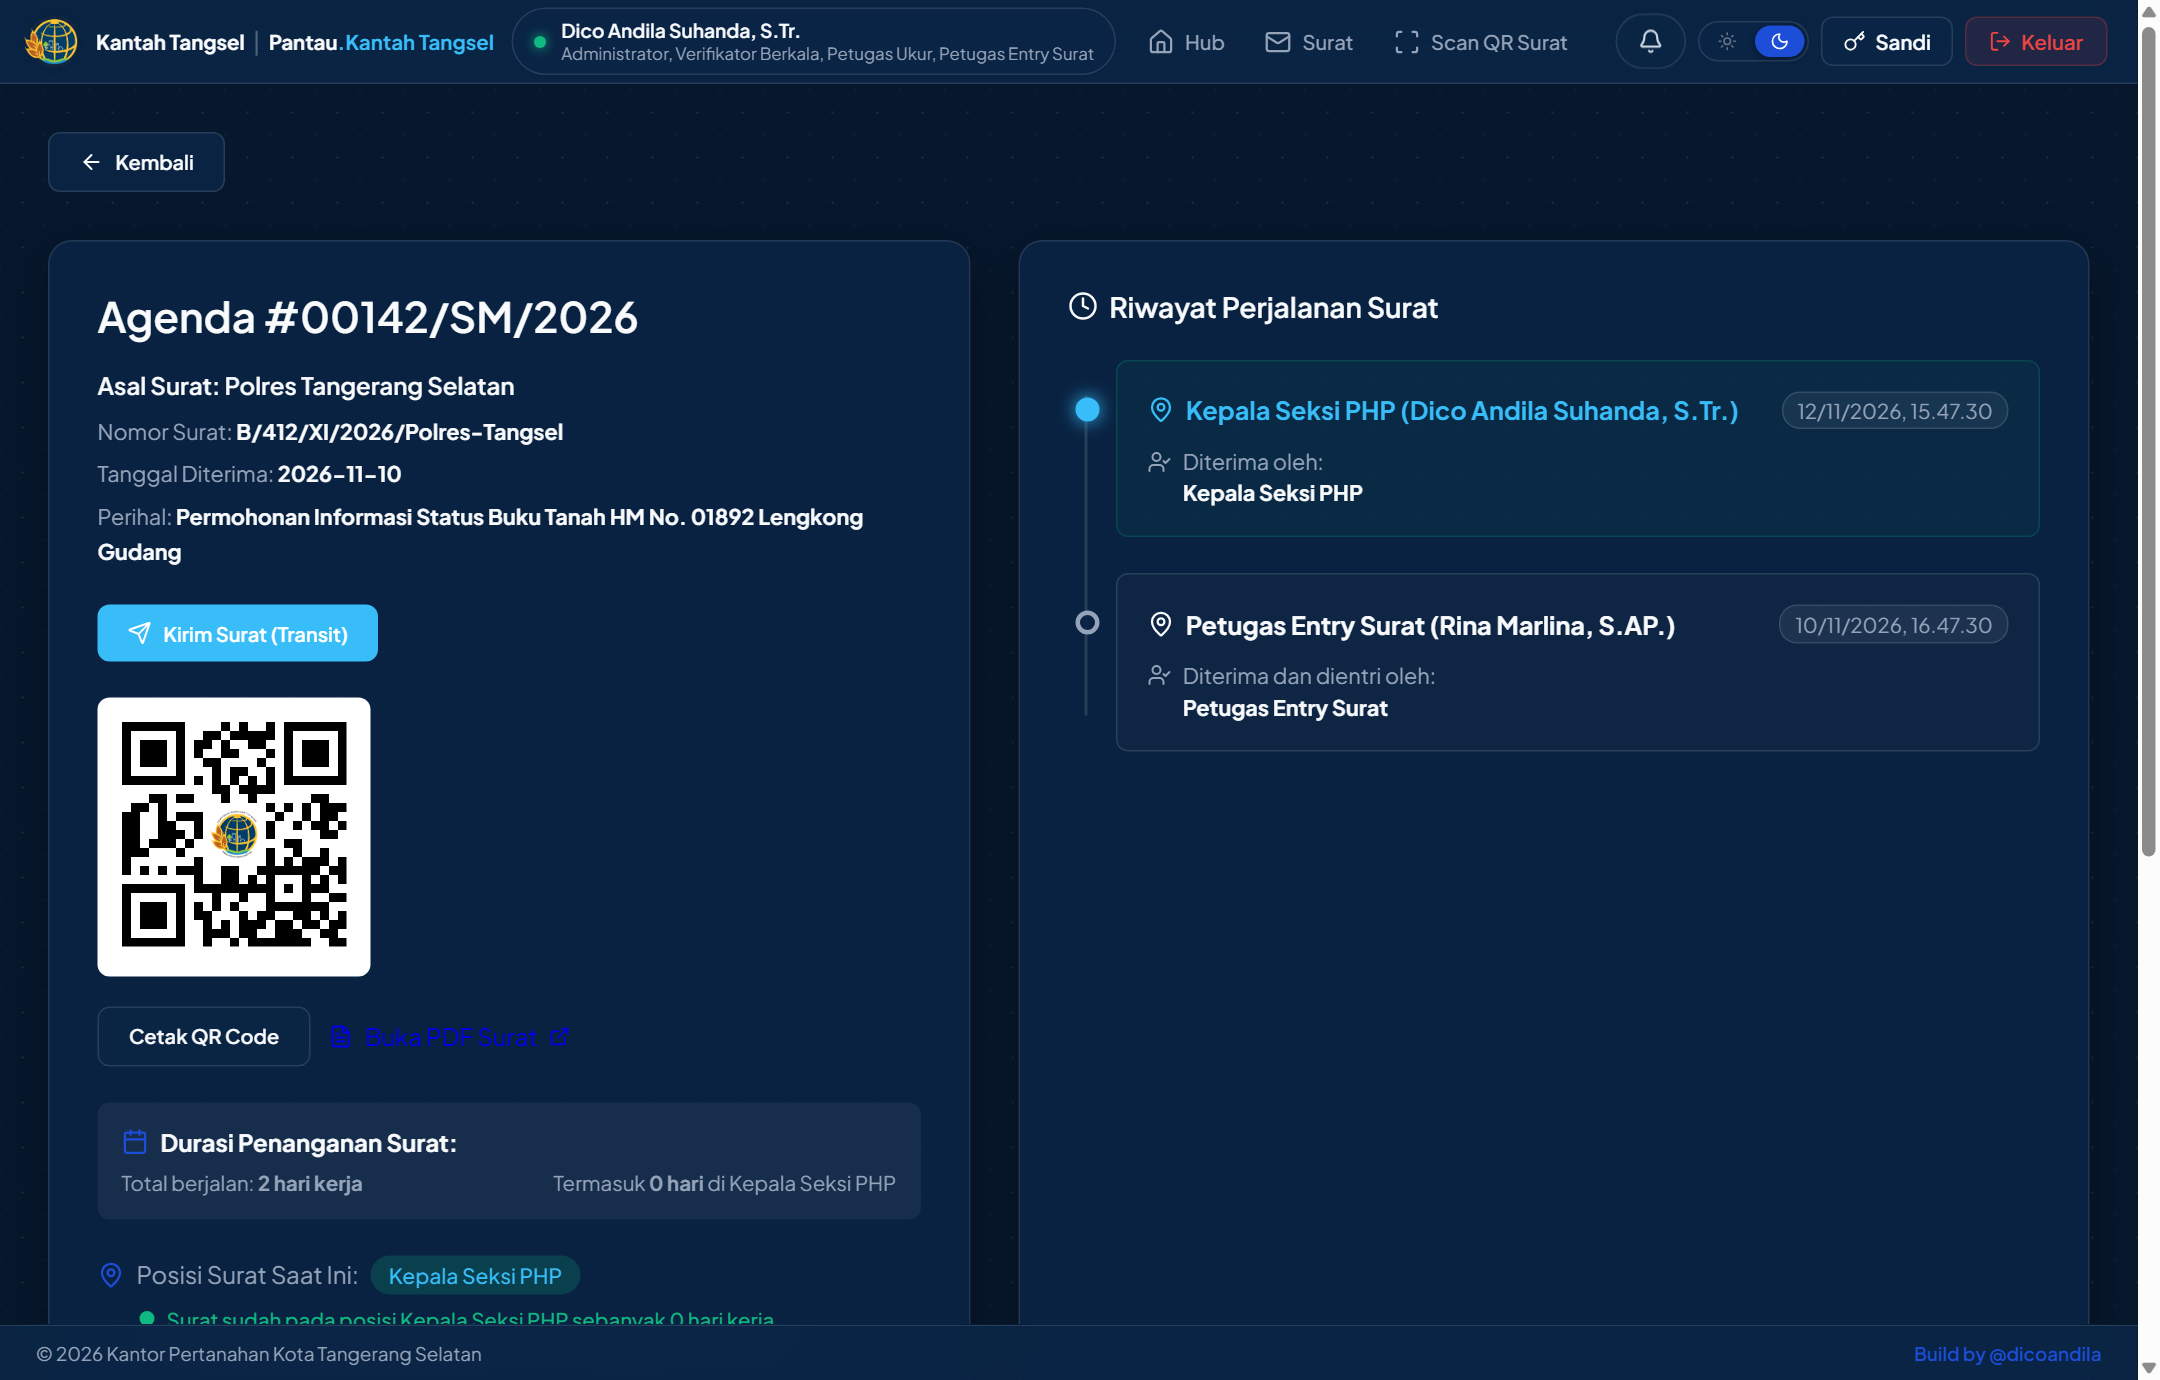
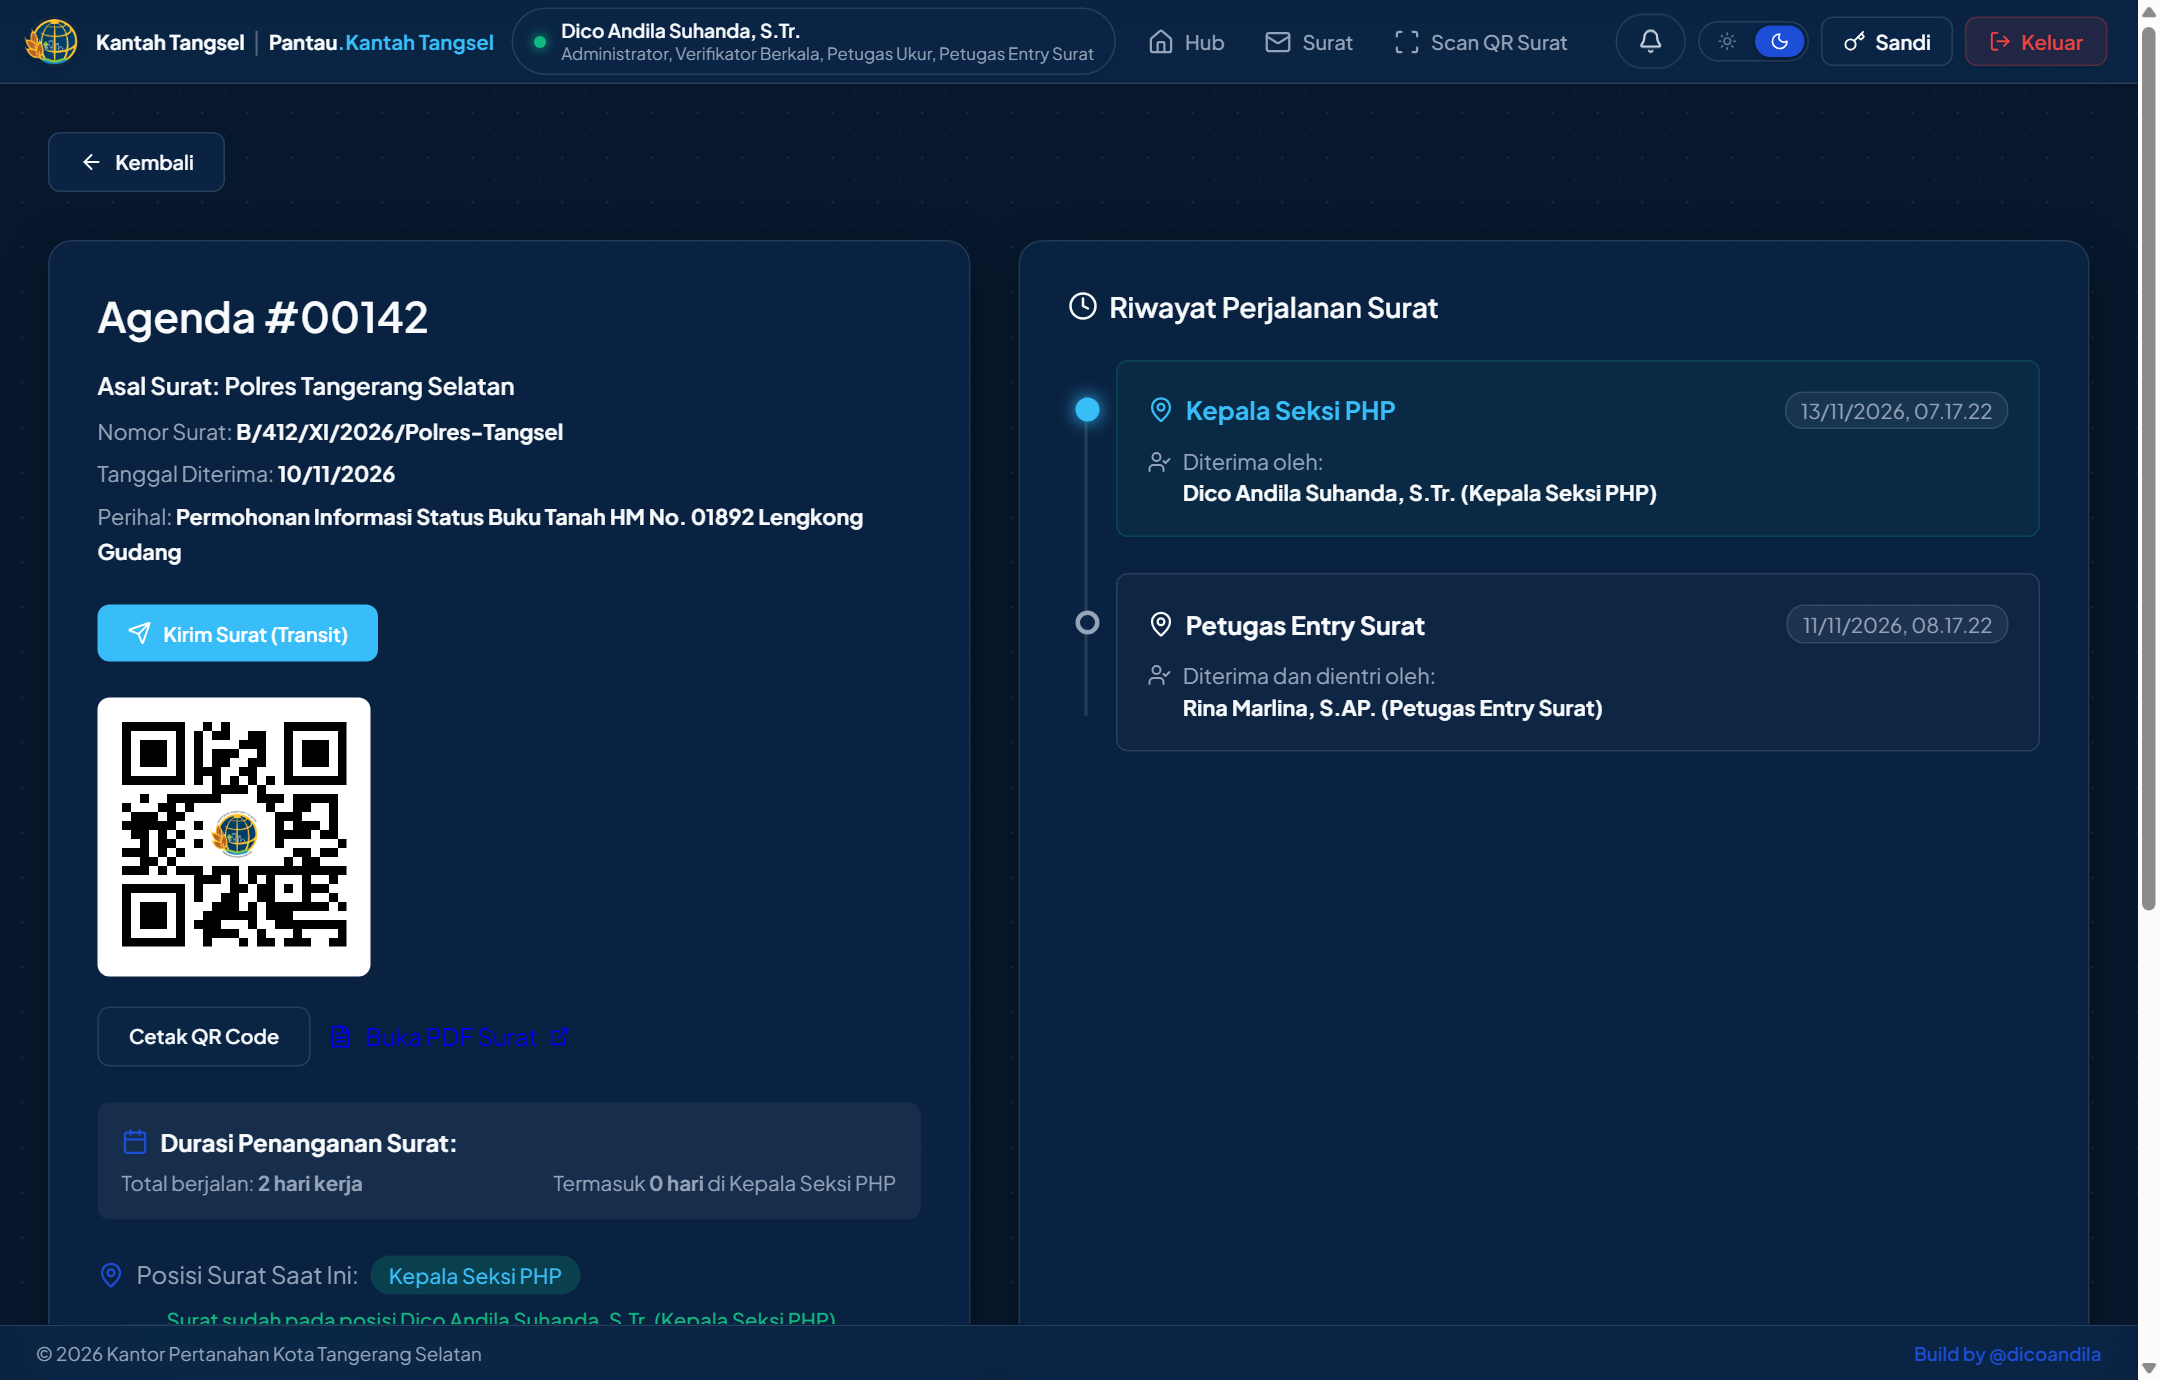
fix(surat): format tanggal_diterima as DD/MM/YYYY across Surat views and update screenshots

diff --git a/frontend/src/pages/SuratDetails.jsx b/frontend/src/pages/SuratDetails.jsx
@@ -3,7 +3,7 @@ import { useParams, useNavigate } from 'react-router-dom';
 import api from '../utils/api';
 import { QRCodeSVG } from 'qrcode.react';
 import { ArrowLeft, Clock, MapPin, UserCheck, Calendar, AlertTriangle, Edit2, Save, X, MessageSquare, Send, Loader2, FileText, ExternalLink } from 'lucide-react';
-import { getWorkingDays, getStatusColor, parseSQLiteDate } from '../utils/dateUtils';
+import { getWorkingDays, getStatusColor, parseSQLiteDate, formatDateDDMMYYYY } from '../utils/dateUtils';
 import toast from 'react-hot-toast';
 
 export default function SuratDetails() {
@@ -328,7 +328,7 @@ export default function SuratDetails() {
             Nomor Surat: <strong style={{ color: 'var(--text-main)' }}>{surat.nomor_surat}</strong>
           </p>
           <p style={{ color: 'var(--text-muted)', marginBottom: '0.35rem', fontSize: '0.9rem' }}>
-            Tanggal Diterima: <strong style={{ color: 'var(--text-main)' }}>{surat.tanggal_diterima || '-'}</strong>
+            Tanggal Diterima: <strong style={{ color: 'var(--text-main)' }}>{formatDateDDMMYYYY(surat.tanggal_diterima)}</strong>
           </p>
           <p style={{ marginBottom: '1.5rem', color: 'var(--text-muted)', fontSize: '0.9rem' }}>
             Perihal: <strong style={{ color: 'var(--text-main)' }}>{surat.perihal}</strong>

diff --git a/frontend/src/pages/SuratDashboard.jsx b/frontend/src/pages/SuratDashboard.jsx
@@ -4,6 +4,7 @@ import api from '../utils/api';
 import { Mail, MailPlus, Search, FileText, QrCode, Printer, X } from 'lucide-react';
 import { QRCodeSVG } from 'qrcode.react';
 import toast from 'react-hot-toast';
+import { formatDateDDMMYYYY } from '../utils/dateUtils';
 
 export default function SuratDashboard() {
   const [suratList, setSuratList] = useState([]);
@@ -222,7 +223,7 @@ export default function SuratDashboard() {
                   </td>
                   <td style={{ padding: '0.8rem 1rem', fontWeight: 600, fontSize: '0.86rem' }}>{surat.asal_surat}</td>
                   <td style={{ padding: '0.8rem 1rem', fontSize: '0.84rem' }}>{surat.nomor_surat}</td>
-                  <td style={{ padding: '0.8rem 1rem', fontSize: '0.82rem', color: 'var(--text-muted)' }}>{surat.tanggal_diterima}</td>
+                  <td style={{ padding: '0.8rem 1rem', fontSize: '0.82rem', color: 'var(--text-muted)' }}>{formatDateDDMMYYYY(surat.tanggal_diterima)}</td>
                   <td style={{ padding: '0.8rem 1rem', maxWidth: '300px', whiteSpace: 'nowrap', overflow: 'hidden', textOverflow: 'ellipsis', fontSize: '0.84rem' }}>
                     {surat.perihal}
                   </td>

diff --git a/frontend/src/pages/SuratScanner.jsx b/frontend/src/pages/SuratScanner.jsx
@@ -17,6 +17,7 @@ import {
 } from 'lucide-react';
 import toast from 'react-hot-toast';
 import { playScanSuccessSound, playScanErrorSound } from '../utils/audioUtils';
+import { formatDateDDMMYYYY } from '../utils/dateUtils';
 
 export default function SuratScanner() {
   const [status, setStatus] = useState('scanning'); // 'scanning', 'processing', 'found', 'not_found', 'error'
@@ -316,7 +317,7 @@ export default function SuratScanner() {
                 </div>
                 <div>
                   <span style={{ display: 'block', fontSize: '0.78rem', color: 'var(--text-muted)', marginBottom: '0.2rem' }}>Tanggal Diterima</span>
-                  <strong style={{ color: 'var(--text-main)', fontSize: '0.95rem' }}>{scannedSurat.tanggal_diterima}</strong>
+                  <strong style={{ color: 'var(--text-main)', fontSize: '0.95rem' }}>{formatDateDDMMYYYY(scannedSurat.tanggal_diterima)}</strong>
                 </div>
               </div>
 

diff --git a/frontend/src/utils/dateUtils.js b/frontend/src/utils/dateUtils.js
@@ -114,6 +114,22 @@ export function formatDate(date) {
   }).format(date);
 }
 
+// Memformat string tanggal (misal YYYY-MM-DD) menjadi DD/MM/YYYY tanpa pergeseran zona waktu
+export function formatDateDDMMYYYY(dateStr) {
+  if (!dateStr) return '-';
+  const clean = String(dateStr).trim();
+  const ymdMatch = clean.match(/^(\d{4})-(\d{2})-(\d{2})/);
+  if (ymdMatch) {
+    return `${ymdMatch[3]}/${ymdMatch[2]}/${ymdMatch[1]}`;
+  }
+  if (/^\d{2}\/\d{2}\/\d{4}$/.test(clean)) {
+    return clean;
+  }
+  const parsed = parseSQLiteDate(clean);
+  if (isNaN(parsed.getTime())) return clean;
+  return formatDate(parsed);
+}
+
 export function getStatusColor(workingDaysAtDesk) {
   if (workingDaysAtDesk > 2) return 'var(--error-color)'; // Merah (> 2 artinya 3 atau lebih)
   if (workingDaysAtDesk === 2) return 'var(--warning-color)'; // Kuning (tepat 2 hari)

diff --git a/HANDOVER_PANTAU_KANTAH.md b/HANDOVER_PANTAU_KANTAH.md
@@ -193,6 +193,7 @@ Ketika berkas dipindai (*scan*), backend menerapkan aturan bisnis spesifik berda
   - **Nada Beep Deteksi (`playScanBeepSound`):** Nada *sine* berfrekuensi 1480 Hz selama ~0.08 detik saat kamera pertama kali berhasil membaca payload teks QR Code.
   - **Nada Peringatan Error (`playScanErrorSound`):** Nada rendah *sawtooth* 280 Hz -> 180 Hz (~0.20 detik) ketika pemindaian berkas ditolak (misal: berkas sudah selesai/ditutup, bukan tujuan transit, atau payload tidak valid).
 - **Auto-Unlock Audio Mobile:** Menyertakan pendengar event `click` dan `touchstart` pasif sekali pakai untuk membuka kunci `AudioContext` yang tertahan oleh kebijakan *mobile browser autoplay restrictions* (iOS Safari / Android Chrome).
+- **Konsistensi Format Tanggal Persuratan (`formatDateDDMMYYYY`):** Seluruh tampilan tanggal terima surat (`tanggal_diterima`) pada `SuratDashboard.jsx`, `SuratDetails.jsx`, `SuratScanner.jsx`, dan `AdminDashboard.jsx` diseragamkan ke format **`DD/MM/YYYY`** menggunakan utilitas `formatDateDDMMYYYY` (`frontend/src/utils/dateUtils.js`) yang mengonversi string tanggal SQLite/ISO secara langsung tanpa pergeseran zona waktu.
 
 ### 5.7. Standarisasi Cetak Slip QR & Isolasi Cetak Bersih (*Clean Print Stylesheet*)
 - **Isolasi Mutlak Media Cetak (`@media print`):** Seluruh titik cetak QR Code (`/entry`, `/file/:qrcode`, `/surat`, `/surat/detail/:id`) telah disterilkan dari elemen navigasi dan kontrol antarmuka.

diff --git a/README.md b/README.md
@@ -223,7 +223,7 @@ pantau-kantah-tangsel/
 │   │   ├── utils/
 │   │   │   ├── api.js              # Konfigurasi instance Axios & interceptor JWT
 │   │   │   ├── audioUtils.js       # Synthesizer Web Audio API nada sukses scan QR, beep, & error
-│   │   │   └── dateUtils.js        # Kalkulator hari kerja, kalender libur, & target SOP
+│   │   │   └── dateUtils.js        # Kalkulator hari kerja, kalender libur, target SOP, & formatter tanggal (DD/MM/YYYY)
 │   │   ├── App.jsx                 # Konfigurasi routing utama & Role-based Route Guards
 │   │   └── index.css               # Sistem desain global (Dark Glassmorphism)
 │   └── package.json                # Dependensi frontend
